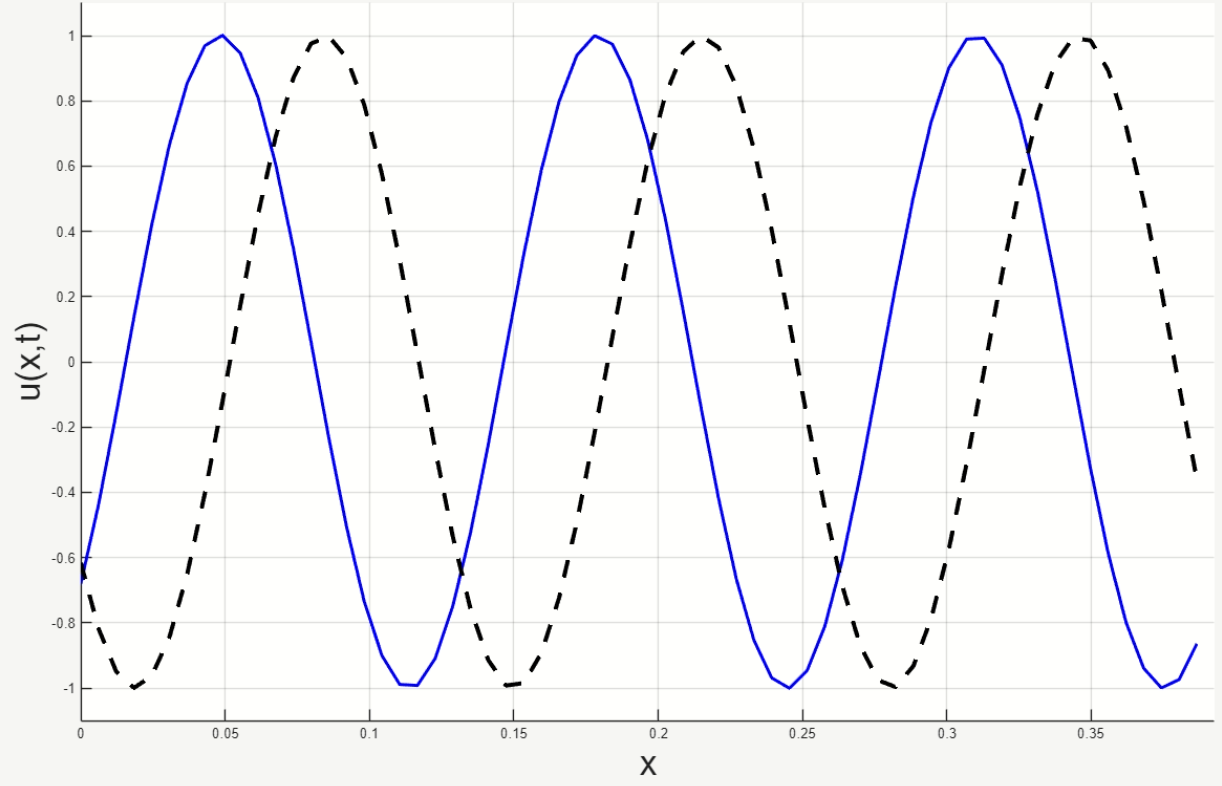
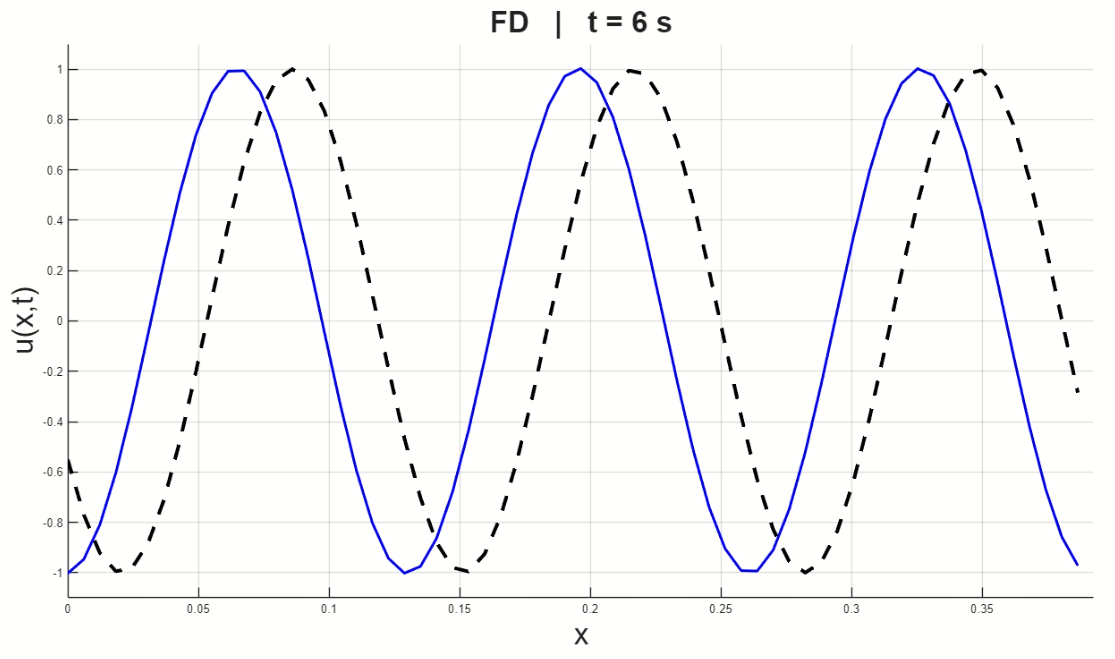
.

diff --git a/main.tex b/main.tex
@@ -1286,7 +1286,7 @@ Just to make sure, we ran a simulation with only DFT and the exact solution to c
 \begin{figure}[H]
     \centering
     \includegraphics[width=0.8\linewidth]{figures/pic_one_periodic_FD.png}
-    \caption{FD (blue) method separates from exact solution (black) after $t \approx 10$ s. }
+    \caption{FD (blue) method separates from exact solution (black) after $t \approx 6$ s. }
     \label{fig_one_wave_FD}
 \end{figure}
 
@@ -1294,7 +1294,7 @@ Just to make sure, we ran a simulation with only DFT and the exact solution to c
 \begin{figure}[H]
     \centering
     \includegraphics[width=0.8\linewidth]{figures/pic_one_periodic_Numerov.png}
-    \caption{Numerov (red) method separates from exact solution (black) after $t \approx 2 \, 000$ s. }
+    \caption{Numerov (red) method separates from exact solution (black) after $t \approx 1 \, 938$ s. }
     \label{}
 \end{figure}
 
@@ -1326,7 +1326,7 @@ We can see on figures below, that using FD the wave package separated after $t \
 
 \begin{figure}[H]
     \centering
-    \includegraphics[width=0.8\linewidth]{figures/pic_two_periodic_same_initial.png}
+    \includegraphics[width=0.8\linewidth]{figures/pic_two_same_initial.png}
     \caption{Exact solution at $t \approx 0$ s. }
     \label{fig_two_same_all}
 \end{figure}
@@ -1334,7 +1334,7 @@ We can see on figures below, that using FD the wave package separated after $t \
 \begin{figure}[H]
     \centering
     \includegraphics[width=0.8\linewidth]{figures/pic_two_same_FD.png}
-    \caption{FD (blue) method separates from exact solution (black) after $t \approx 45$ s. }
+    \caption{FD (blue) method separates from exact solution (black) after $t \approx 44$ s. }
     \label{}
 \end{figure}
 
@@ -1342,14 +1342,14 @@ We can see on figures below, that using FD the wave package separated after $t \
 \begin{figure}[H]
     \centering
     \includegraphics[width=0.8\linewidth]{figures/pic_two_same_Numerov.png}
-    \caption{Numerov (red) method separates from exact solution (black) after $t \approx 6 \, 300$ s. }
+    \caption{Numerov (red) method separates from exact solution (black) after $t \approx 6 \, 421$ s. }
     \label{}
 \end{figure}
 
 \begin{figure}[H]
     \centering
-    \includegraphics[width=0.8\linewidth]{figures/pic_two_periodic_same_DST.png}
-    \caption{DST (magenta) method never separates from exact solution (black), $t \approx 45 \, 000$ s. }
+    \includegraphics[width=0.8\linewidth]{figures/pic_two_periodic_same_DFT.png}
+    \caption{DFT (magenta) method never separates from exact solution (black), $t \approx 513 \, 211$ s. }
     \label{}
 \end{figure}
 
@@ -1380,7 +1380,7 @@ Again on figures below, using FD the wave package separated after $t \approx 24$
 \begin{figure}[H]
     \centering
     \includegraphics[width=0.8\linewidth]{figures/pic_two_opposite_FD.png}
-    \caption{FD (blue) method separates from exact solution (black) after $t \approx 10$ s. }
+    \caption{FD (blue) method separates from exact solution (black) after $t \approx 15$ s. }
     \label{}
 \end{figure}
 
@@ -1388,15 +1388,15 @@ Again on figures below, using FD the wave package separated after $t \approx 24$
 \begin{figure}[H]
     \centering
     \includegraphics[width=0.8\linewidth]{figures/pic_two_opposite_Numerov.png}
-    \caption{Numerov (red) method separates from exact solution (black) after $t \approx 3 \, 000$ s. }
+    \caption{Numerov (red) method separates from exact solution (black) after $t \approx 3\, 365$ s. }
     \label{}
 \end{figure}
 
 
 \begin{figure}[H]
     \centering
-    \includegraphics[width=0.8\linewidth]{figures/pic_two_periodic_opposite_DST.png}
-    \caption{DST (magenta) method never separates from exact solution (black) $t \approx 45 \, 000$ s. }
+    \includegraphics[width=0.8\linewidth]{figures/pic_two_periodic_opposite_DFT.png}
+    \caption{DFT (magenta) method never separates from exact solution (black) $t \approx 46 \, 656$ s. }
     \label{}
 \end{figure}
 
